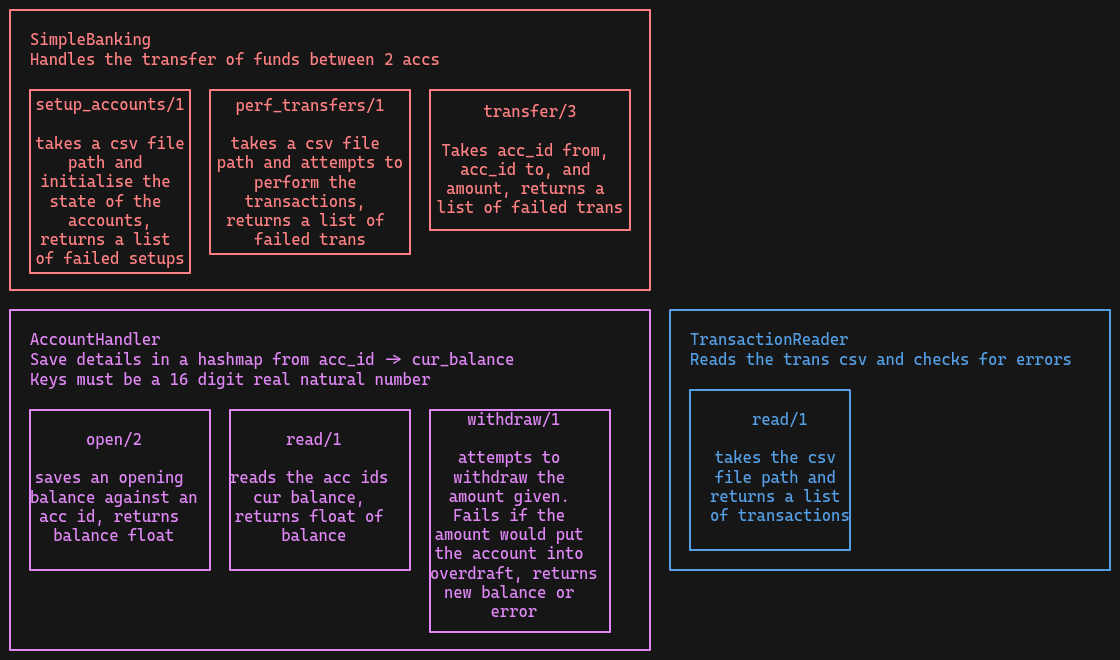
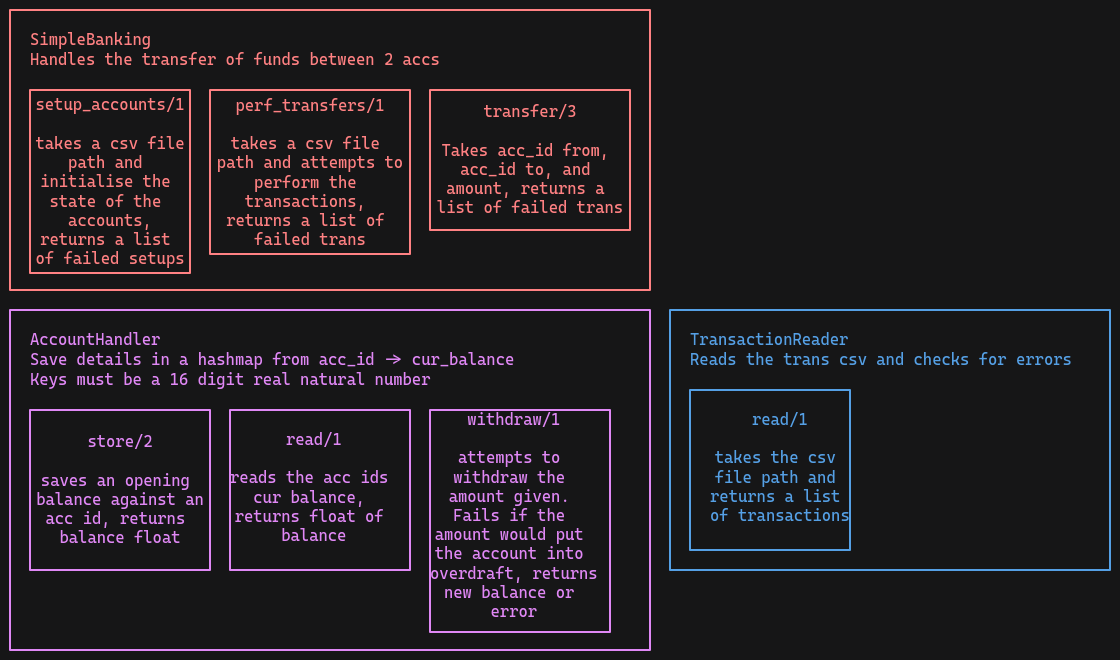
Add working rspec tests

Changed region(s): [[0.0312, 0.6364, 0.1875, 0.8485]]

diff --git a/simple_banking/spec/account_reader_spec.rb b/simple_banking/spec/account_reader_spec.rb
@@ -1,12 +1,12 @@
-require 'simple_banking'
+require "simple_banking/account_handler"
 
-describe SimpleBanking::AccountHandler do
+RSpec.describe AccountHandler do
   it "assigns a starting balance to an account id returning the balance" do
     starting_balance = 100.00
     account_id = 1234123412341234
 
     expect(
-      SimpleBanking::AccountHandler.store(account_id, starting_balance)
+      AccountHandler.store(account_id, starting_balance)
     ).to eql(starting_balance)
   end
 

diff --git a/simple_banking/lib/simple_banking/account_handler.rb b/simple_banking/lib/simple_banking/account_handler.rb
@@ -1,0 +1,5 @@
+class AccountHandler
+  def initialize
+    @accounts = Hash.new
+  end
+end
